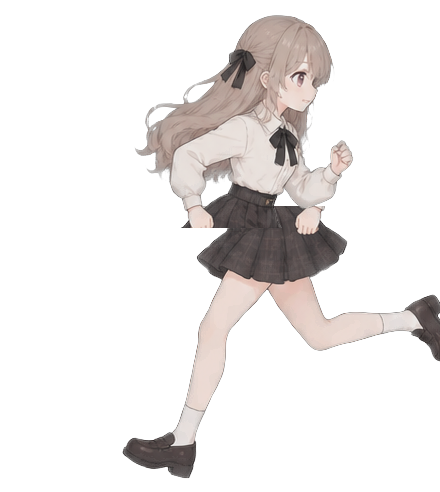
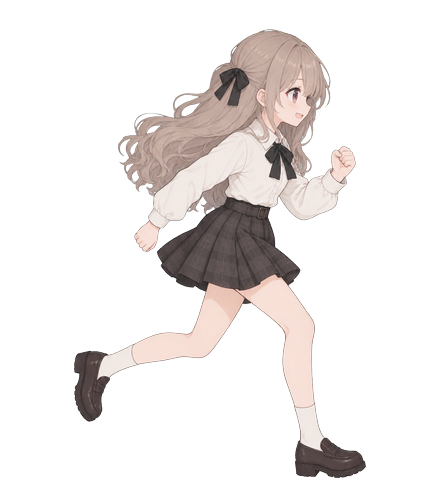
Use the two new running drawings for the second half of the stride
The frames that had been made by mirroring the lower body are replaced by
two drawings of the companion with the other leg leading: a push-off with
the heel up and a planted stride. They are mirrored to face right, scaled to
the height of the existing frames, set on the same foot line, and their soft
glow is trimmed from the alpha.

Claude-Session: https://claude.ai/code/session_015jhh8FULe7Rjht9XKcjAk7

Changed region(s): [[0.1477, 0.0305, 1.0, 0.9756]]

diff --git a/lib/models/run_play.dart b/lib/models/run_play.dart
@@ -225,8 +225,8 @@ const hatAnchors = <String, (double, double)>{
   'sit_side': (0.459, 0.124),
   'run_side_tired': (0.63, 0.104),
   'run_side_closed': (0.58, 0.073),
-  'run_side_c': (0.634, 0.03),
-  'run_side_d': (0.628, 0.057),
+  'run_side_c': (0.615, 0.059),
+  'run_side_d': (0.592, 0.059),
   'run_back_a': (0.401, 0.029),
   'run_back_b': (0.578, 0.046),
   'stand_back': (0.454, 0.124),
